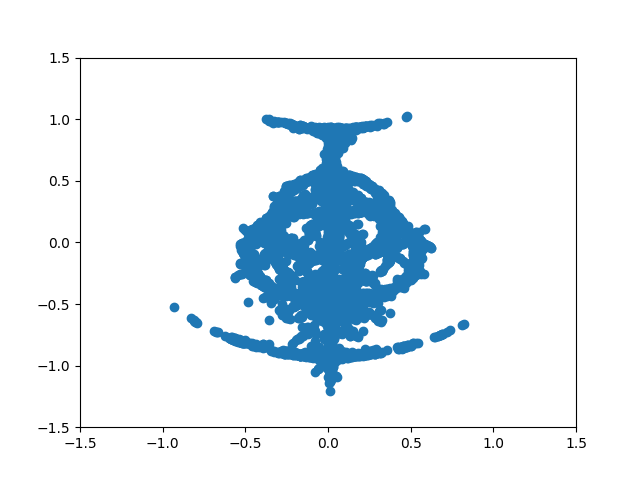
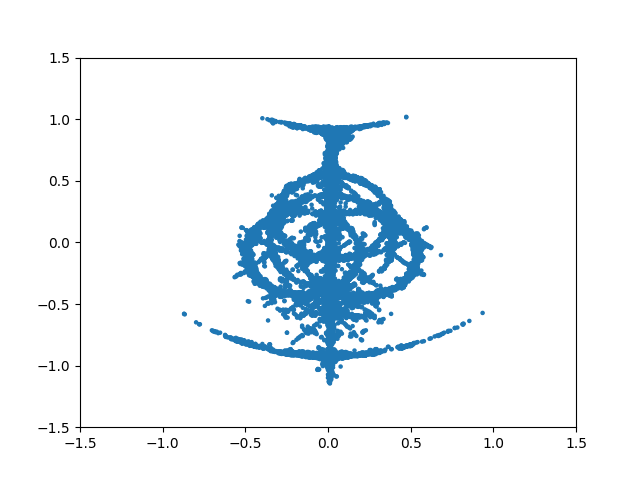
generic commit

Changed region(s): [[0.2812, 0.2188, 0.75, 0.8438], [0.625, 0.2188, 0.6562, 0.25], [0.25, 0.625, 0.2812, 0.6562]]

diff --git a/scripts/transport/fit_kernel.py b/scripts/transport/fit_kernel.py
@@ -77,8 +77,8 @@ def sample_scatter(sample, save_loc, bins = 20, d = 2, range = None):
     x, y = sample.T
     x = np.asarray(x)
     y = np.asarray(y)
-    size = 5
-    s = [5 for x in x]
+    size = 10
+    s = [size for x in x]
     plt.scatter(x,y, s=s)
     
     if range != None:
@@ -140,7 +140,7 @@ def dict_to_np(dict):
 
 
 def unif_boost_exp(Y_gen, X_gen = None, exp_name= 'exp', diff_map = unif_diffs,  N = 500, n_bins = 30,
-                   plt_range = None, t_iter = 401, diff_quantiles = [0.0, 0.3], vmax = None, q = 0):
+                   plt_range = None, t_iter = 401, diff_quantiles = [0.0, 0.4], vmax = None, q = 0):
     save_dir = f'../../data/kernel_transport/{exp_name}'
 
     try:
@@ -209,11 +209,11 @@ def unif_boost_exp(Y_gen, X_gen = None, exp_name= 'exp', diff_map = unif_diffs, 
     r_fit_params = {'name': 'radial', 'l': l / 7 , 'sigma': 1}
     r_mmd_params = {'name': 'radial', 'l': l / 7, 'sigma': 1}
     regression_params = {'Y': Y.T, 'Y_unif': Y_unif.T, 'fit_kernel_params': r_fit_params, 'one_lambda': 5,
-                         'reg_lambda': 1e-7,'mmd_kernel_params': r_mmd_params, 'print_freq': 500,
+                         'reg_lambda': 1e-8,'mmd_kernel_params': r_mmd_params, 'print_freq': 500,
                          'alpha': alpha, 'learning_rate': .01, 'nugget': 1e-3, 'W_inf': Y_res['W_rank']}
 
     regression_kernel =  RegressionKernel(regression_params)
-    train_kernel(regression_kernel, n_iter= 15 * t_iter)
+    train_kernel(regression_kernel, n_iter= 30 * t_iter)
 
     alpha_inv1 = regression_kernel.map(Y_unif1.T)
     Y_pred_unif = resample(Y_unif1, alpha_inv1, N=tilde_scale)
@@ -323,10 +323,12 @@ def circle_comparison_exp(q = 0):
     plt_range = [[-1.5, 1.5], [-1.5, 1.5]]
     vmax = 8
     Ns =  [200, 400, 600, 800, 1000, 1200, 1600, 2000]
-    trials = 10
+    #Ns = [500, 1000]
+    #trials = 4
+    trials = 20
 
     Y_gen = normal_theta_circle
-    X_gen = sample_normal
+    X_gen = None
     diff_map = circle_diffs
     exp_name = 'mmd_regression_test'
     if q:
@@ -341,7 +343,7 @@ def circle_comparison_exp(q = 0):
         mmds = []
         for i in range(trials):
             mmd_vanilla, mmd_unif = unif_boost_exp(Y_gen, X_gen, exp_name=exp_name, diff_map=diff_map,
-                                                   N=N, plt_range=plt_range, vmax=vmax)
+                                                   N=N, plt_range=plt_range, vmax=vmax, q = q)
             unif_mmds.append(float(mmd_unif.detach().cpu()))
             mmds.append(float(mmd_vanilla.detach().cpu()))
 
